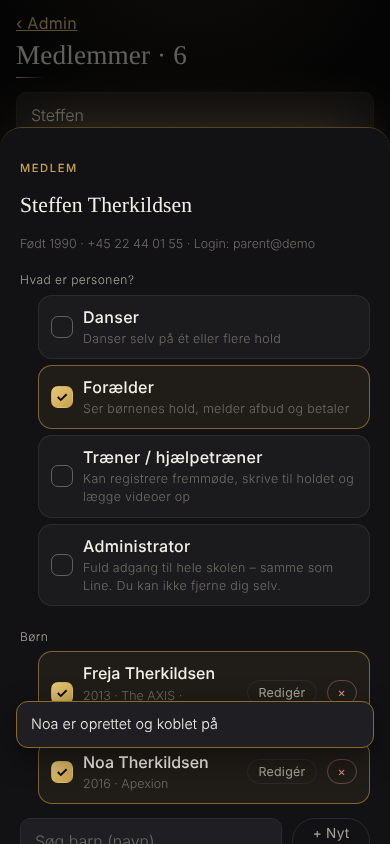
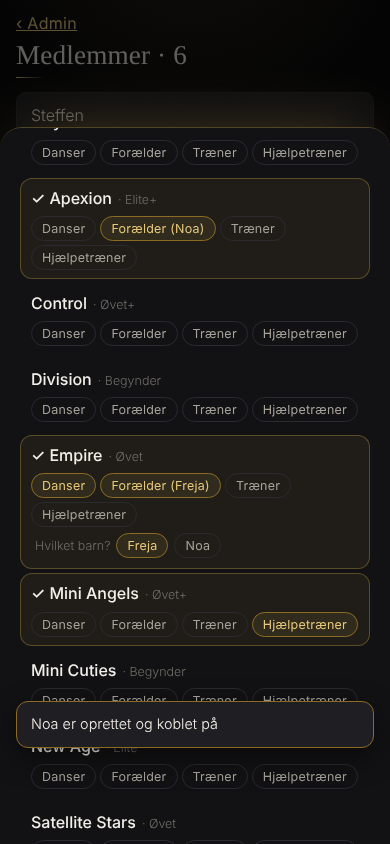
Members editor v3: access summary on top; any role combination incl. admin (saved with Gem); one team list grouped by style, alphabetical, role chips per team (Danser · Forælder via child · Træner · Hjælpetræner); Admin menu 'Brugere' → 'Nye brugere'
Claude-Session: https://claude.ai/code/session_01GGpukzb1UrCDBdg1Js3mqC

diff --git a/src/domain/llds/admin/MemberSheet.tsx b/src/domain/llds/admin/MemberSheet.tsx
@@ -6,32 +6,39 @@ import { Sheet } from "../components/Sheet";
 
 type Props = { member: Member; all: Member[]; teams: Team[]; onClose: () => void; onChanged: () => void; onOpen: (m: Member) => void; toast: (m: string) => void };
 
-const Check = ({ on, children, sub, sub2, onChange, testId, disabled }: { on: boolean; children: ReactNode; sub?: string; sub2?: string; onChange: () => void; testId?: string; disabled?: boolean }) => (
+const Check = ({ on, children, sub, onChange, testId, disabled }: { on: boolean; children: ReactNode; sub?: string; onChange: () => void; testId?: string; disabled?: boolean }) => (
   <button type="button" className={"checkrow" + (on ? " on" : "") + (disabled ? " off" : "")} role="checkbox" aria-checked={on} aria-disabled={disabled} disabled={disabled} onClick={onChange} data-testid={testId}>
     <span className="box" aria-hidden>{on ? "✓" : ""}</span>
-    <span className="grow"><span className="lbl">{children}</span>{(sub2 ?? sub) && <span className="tiny">{sub2 ?? sub}</span>}</span>
+    <span className="grow"><span className="lbl">{children}</span>{sub && <span className="tiny">{sub}</span>}</span>
   </button>
 );
 
-/** Admin → Medlemmer → one person. Roles are explicit check boxes (dancer / parent / trainer / admin); each role opens its own
- *  section (teams as dancer, teams as trainer or assistant, linked children). A summary at the bottom lists exactly what the
- *  person can see in the app, so Line never has to guess. */
+const ageOf = (p: { birth_date?: string | null; birth_year?: number | null }) => p.birth_date ? Math.floor((Date.now() - new Date(p.birth_date).getTime()) / 31557600000) : p.birth_year ? new Date().getFullYear() - p.birth_year : null;
+
+/** Admin → Medlemmer → one person.
+ *  Top: what the person can see in the app (one ✓ per team, with the reason). Then "who is this?" as four check rows
+ *  (dancer / parent / trainer / admin – any combination; eligibility by age). Then ONE team list, grouped by style and
+ *  alphabetical, where each checked role adds its own chip on every team row: Danser · Forælder (via a child) · Træner · Hjælpetræner.
+ *  Then the children (link existing / create new). Everything is saved with Gem. */
 export function MemberSheet({ member: p, all, teams, onClose, onChanged, onOpen, toast }: Props) {
   const { t } = useTranslation();
   const me = useAuth((s) => s.me)!;
-  // Eligibility follows age (and child login), never whether the person has logged in yet – seeded trainers have no login until first sign-in.
-  const age = p.birth_date ? Math.floor((Date.now() - new Date(p.birth_date).getTime()) / 31557600000) : p.birth_year ? new Date().getFullYear() - p.birth_year : null;
-  const canStaff = !p.supervised_by && (age === null || age >= 15);         // trainer / assistant from 15
-  const canParent = !p.supervised_by && (age === null || age >= 18);        // parent / admin from 18
-  const canAdmin = canParent;
-  const why = (ok: boolean, min: number) => (ok ? undefined : age === null ? t("admin.needsAgeUnknown") : t("admin.needsAge", { min }));
+  const age = ageOf(p);
+  const canStaff = !p.supervised_by && (age === null || age >= 15);
+  const canParent = !p.supervised_by && (age === null || age >= 18);
+  const isSelf = p.id === me.person.id;
+  const canAdmin = canParent && !isSelf;
+  const why = (ok: boolean, min: number) => (ok ? undefined : isSelf && min === 18 && canParent ? t("admin.notSelf") : age === null ? t("admin.needsAgeUnknown") : t("admin.needsAge", { min }));
 
   const [dancer, setDancer] = useState(p.memberships.some((m) => m.role === "dancer"));
   const [parent, setParent] = useState(p.children.length > 0);
   const [staff, setStaff] = useState(p.memberships.some((m) => m.role !== "dancer"));
-  const [dancerTeams, setDancerTeams] = useState<string[]>(p.memberships.filter((m) => m.role === "dancer").map((m) => m.team_id));
-  const [staffTeams, setStaffTeams] = useState<{ team_id: string; role: Role }[]>(p.memberships.filter((m) => m.role !== "dancer").map((m) => ({ team_id: m.team_id, role: m.role })));
+  const [admin, setAdmin] = useState(p.is_admin);
+  const [ms, setMs] = useState<{ team_id: string; role: Role }[]>(p.memberships.map((m) => ({ team_id: m.team_id, role: m.role })));
   const [kids, setKids] = useState<string[]>(p.children.map((c) => c.id));
+  // children's dancer teams (draft) – edited through the "Forælder" chip on a team row
+  const [kidTeams, setKidTeams] = useState<Record<string, string[]>>(() => Object.fromEntries(p.children.map((c) => [c.id, (all.find((x) => x.id === c.id)?.memberships ?? []).filter((m) => m.role === "dancer").map((m) => m.team_id)])));
+  const [pickKidFor, setPickKidFor] = useState<string | null>(null);
   const [kidQ, setKidQ] = useState("");
   const [newKid, setNewKid] = useState<{ first_name: string; birth_date: string; team_ids: string[] } | null>(null);
   const [busy, setBusy] = useState(false);
@@ -40,73 +47,107 @@ export function MemberSheet({ member: p, all, teams, onClose, onChanged, onOpen,
   const teamName = (id: string) => teams.find((x) => x.id === id)?.name ?? "?";
   const byId = (id: string) => all.find((x) => x.id === id);
   const toggleIn = (list: string[], id: string) => (list.includes(id) ? list.filter((x) => x !== id) : [...list, id]);
-  const setStaffRole = (team_id: string, role: Role | null) => setStaffTeams((cur) => { const rest = cur.filter((m) => m.team_id !== team_id); return role ? [...rest, { team_id, role }] : rest; });
+  const has = (team_id: string, role: Role) => ms.some((m) => m.team_id === team_id && m.role === role);
+  const toggleRole = (team_id: string, role: Role) => setMs((cur) => (cur.some((m) => m.team_id === team_id && m.role === role) ? cur.filter((m) => !(m.team_id === team_id && m.role === role)) : [...cur, { team_id, role }]));
+  const kidsOn = (team_id: string) => kids.filter((k) => (kidTeams[k] ?? byId(k)?.memberships.filter((m) => m.role === "dancer").map((m) => m.team_id) ?? []).includes(team_id));
+  const toggleKidTeam = (kid: string, team_id: string) => setKidTeams((cur) => ({ ...cur, [kid]: toggleIn(cur[kid] ?? byId(kid)?.memberships.filter((m) => m.role === "dancer").map((m) => m.team_id) ?? [], team_id) }));
+  const onParentChip = (team_id: string) => {
+    if (!kids.length) { toast(t("admin.addChildFirst")); document.getElementById("kids-sec")?.scrollIntoView({ behavior: "smooth", block: "center" }); return; }
+    if (kids.length === 1) { toggleKidTeam(kids[0], team_id); return; }
+    setPickKidFor((cur) => (cur === team_id ? null : team_id));
+  };
 
-  // candidates for "add existing child": approved persons without their own adult login, not already linked, not the person
+  // teams grouped by style, alphabetical
+  const groups = useMemo(() => {
+    const g = new Map<string, Team[]>();
+    for (const tm of [...teams].sort((a, b) => a.name.localeCompare(b.name, "da"))) { const k = tm.style || t("admin.otherStyle"); g.set(k, [...(g.get(k) ?? []), tm]); }
+    return [...g.entries()].sort((a, b) => a[0].localeCompare(b[0], "da"));
+  }, [teams, t]);
+
   const candidates = useMemo(() => {
     const q = kidQ.trim().toLowerCase(); if (q.length < 2) return [];
     return all.filter((x) => x.id !== p.id && !kids.includes(x.id) && (!x.user_id || x.supervised_by) && `${x.first_name} ${x.last_name}`.toLowerCase().includes(q)).slice(0, 6);
   }, [kidQ, all, kids, p.id]);
 
-  // what the person will be able to see after save
   const access = useMemo(() => {
     const rows: { team: string; via: string }[] = [];
-    if (dancer) for (const id of dancerTeams) rows.push({ team: teamName(id), via: t("roles.dancer") });
-    if (staff) for (const m of staffTeams) rows.push({ team: teamName(m.team_id), via: t(`roles.${m.role}`) });
-    if (parent) for (const kid of kids) { const c = byId(kid); for (const m of c?.memberships ?? []) if (m.role === "dancer") rows.push({ team: teamName(m.team_id), via: t("admin.viaChild", { name: c!.first_name }) }); }
-    return rows;
+    for (const m of ms) if ((m.role === "dancer" && dancer) || (m.role !== "dancer" && staff)) rows.push({ team: teamName(m.team_id), via: t(`roles.${m.role}`) });
+    if (parent) for (const kid of kids) { const c = byId(kid); for (const tid of kidTeams[kid] ?? c?.memberships.filter((m) => m.role === "dancer").map((m) => m.team_id) ?? []) rows.push({ team: teamName(tid), via: t("admin.viaChild", { name: c?.first_name ?? "" }) }); }
+    return rows.sort((a, b) => a.team.localeCompare(b.team, "da"));
     // eslint-disable-next-line react-hooks/exhaustive-deps
-  }, [dancer, dancerTeams, staff, staffTeams, parent, kids, all, teams]);
+  }, [ms, dancer, staff, parent, kids, kidTeams, all, teams]);
 
   const save = async () => {
     setBusy(true);
     try {
-      const ms: { team_id: string; role: Role }[] = [...(dancer ? dancerTeams.map((team_id) => ({ team_id, role: "dancer" as Role })) : []), ...(staff ? staffTeams.filter((m) => !dancer || !dancerTeams.includes(m.team_id)) : [])];
-      await api.setMemberships(p.id, ms);
-      if (canParent) await api.setGuardians(p.id, parent ? kids : []);
+      await api.setMemberships(p.id, ms.filter((m) => (m.role === "dancer" ? dancer : staff)));
+      if (canParent) {
+        await api.setGuardians(p.id, parent ? kids : []);
+        if (parent) for (const kid of kids) { const c = byId(kid); if (!c || !kidTeams[kid]) continue; const keep = c.memberships.filter((m) => m.role !== "dancer").map((m) => ({ team_id: m.team_id, role: m.role })); await api.setMemberships(kid, [...keep, ...kidTeams[kid].map((team_id) => ({ team_id, role: "dancer" as Role }))]); }
+      }
+      if (canAdmin && admin !== p.is_admin) await api.setAdmin(p.id, admin);
       toast(t("common.saved")); onChanged(); onClose();
-    } finally { setBusy(false); }
+    } catch (x) { toast(t("common.error") + ": " + String((x as Error).message ?? x)); }
+    finally { setBusy(false); }
   };
   const createKid = async () => {
     if (!newKid || !newKid.first_name.trim()) return;
     setBusy(true);
-    try { const cid = await api.createChild({ parent_id: p.id, first_name: newKid.first_name, last_name: p.last_name, birth_date: newKid.birth_date || null, team_ids: newKid.team_ids }); setKids((k) => [...k, cid]); setNewKid(null); onChanged(); toast(t("admin.childCreated", { name: newKid.first_name })); }
+    try { const cid = await api.createChild({ parent_id: p.id, first_name: newKid.first_name, last_name: p.last_name, birth_date: newKid.birth_date || null, team_ids: newKid.team_ids }); setKids((k) => [...k, cid]); setKidTeams((k) => ({ ...k, [cid]: newKid.team_ids })); setNewKid(null); onChanged(); toast(t("admin.childCreated", { name: newKid.first_name })); }
     finally { setBusy(false); }
   };
 
   const login = p.supervised_by ? t("admin.loginChild") : p.user_id ? t("admin.loginOwn", { email: p.email ?? "" }) : p.email ? t("admin.loginPending", { email: p.email }) : p.parents.length ? t("admin.loginNone") : t("admin.loginNoEmail");
   const year = p.birth_date ? new Date(p.birth_date).getFullYear() : p.birth_year;
+  const anyRole = dancer || staff || parent;
 
   return (
     <Sheet onClose={onClose} eyebrow={t("admin.member")} title={`${p.first_name} ${p.last_name}`}>
       <div className="tiny">{[year ? t("admin.born", { year }) : null, p.phone, login].filter(Boolean).join(" · ")}</div>
       {p.parents.length > 0 && <div className="tiny" style={{ marginTop: 4 }}>{t("admin.parents")}: {p.parents.map((g) => <button key={g.id} className="linklike" onClick={() => { const m = byId(g.id); if (m) onOpen(m); }}>{g.first_name} {g.last_name}</button>).reduce<ReactNode[]>((acc, el, i) => (i ? [...acc, ", ", el] : [el]), [])}</div>}
 
-      {/* 1. Roles */}
+      {/* 1. Access summary – first, so the consequence of every tick is visible */}
+      <div className="field"><span>{t("admin.accessHead")}</span>
+        <div className="card access" data-testid="access">
+          {access.length ? access.map((r, i) => <div key={i} className="accessrow"><span className="box on" aria-hidden>✓</span><span className="grow">{r.team}</span><span className="tiny">{r.via}</span></div>) : <p className="tiny muted" style={{ margin: 0 }}>{t("admin.accessNone")}</p>}
+          <div className="tiny" style={{ marginTop: 8 }}>{login}{admin ? ` · ${t("admin.accessAdmin")}` : ""}</div>
+        </div>
+      </div>
+
+      {/* 2. Roles – any combination */}
       <div className="field"><span>{t("admin.rolesHead")}</span>
         <div className="checklist">
           <Check on={dancer} onChange={() => setDancer((v) => !v)} sub={t("admin.roleDancerSub")} testId="role-dancer">{t("roles.dancer")}</Check>
           <Check on={parent} disabled={!canParent} onChange={() => setParent((v) => !v)} sub={why(canParent, 18) ?? t("admin.roleParentSub")} testId="role-parent">{t("roles.parent")}</Check>
           <Check on={staff} disabled={!canStaff} onChange={() => setStaff((v) => !v)} sub={why(canStaff, 15) ?? t("admin.roleStaffSub")} testId="role-staff">{t("admin.roleStaff")}</Check>
-          {p.id !== me.person.id && <Check on={p.is_admin} disabled={!canAdmin} sub2={why(canAdmin, 18)} onChange={async () => { await api.setAdmin(p.id, !p.is_admin); toast(!p.is_admin ? t("admin.adminGiven", { name: p.first_name }) : t("admin.adminRemoved", { name: p.first_name })); onChanged(); }} sub={t("admin.isAdminHint")} testId="admin-toggle">{t("admin.isAdmin")}</Check>}
+          <Check on={admin} disabled={!canAdmin} onChange={() => setAdmin((v) => !v)} sub={why(canAdmin, 18) ?? t("admin.isAdminHint")} testId="admin-toggle">{t("admin.isAdmin")}</Check>
         </div>
       </div>
 
-      {/* 2. Dancer on teams */}
-      {dancer && <div className="field"><span>{t("admin.dancerOn")}</span>
-        <div className="checklist cols" data-testid="dancer-teams">{teams.map((tm) => <Check key={tm.id} on={dancerTeams.includes(tm.id)} onChange={() => setDancerTeams((l) => toggleIn(l, tm.id))}>{tm.name}<span className="tiny"> · {tm.level}</span></Check>)}</div>
-      </div>}
-
-      {/* 3. Trainer / assistant on teams */}
-      {staff && canStaff && <div className="field"><span>{t("admin.staffOn")}</span>
-        <div className="teamgrid" data-testid="staff-teams">{teams.map((tm) => { const r = staffTeams.find((m) => m.team_id === tm.id)?.role ?? null; return (
-          <div key={tm.id} className={"teamrow" + (r ? " on" : "")}><span className="grow">{r ? "✓ " : ""}{tm.name}</span><div className="chips tight">{(["trainer", "assistant"] as Role[]).map((role) => <button key={role} type="button" className={"chip small" + (r === role ? " on" : "")} onClick={() => setStaffRole(tm.id, r === role ? null : role)}>{t(`roles.${role}`)}</button>)}</div></div>); })}</div>
+      {/* 3. One team list – chips per checked role */}
+      {anyRole && <div className="field"><span>{t("admin.teamsHead")}</span>
+        <p className="tiny muted" style={{ margin: "0 0 6px" }}>{t("admin.teamsHint")}</p>
+        <div className="teamlist" data-testid="teamlist">
+          {groups.map(([style, list]) => <div key={style} className="tgroup"><div className="eyebrow">{style}</div>
+            {list.map((tm) => { const kOn = parent ? kidsOn(tm.id) : []; const on = (dancer && has(tm.id, "dancer")) || (staff && (has(tm.id, "trainer") || has(tm.id, "assistant"))) || kOn.length > 0; return (
+              <div key={tm.id} className={"trow" + (on ? " on" : "")} data-team={tm.name}>
+                <div className="trow-main"><span className="grow"><span className="tname">{on ? "✓ " : ""}{tm.name}</span><span className="tiny"> · {tm.level}</span></span>
+                  <div className="chips tight">
+                    {dancer && <button type="button" className={"chip small" + (has(tm.id, "dancer") ? " on" : "")} onClick={() => toggleRole(tm.id, "dancer")}>{t("roles.dancer")}</button>}
+                    {parent && canParent && <button type="button" className={"chip small" + (kOn.length ? " on" : "")} onClick={() => onParentChip(tm.id)} data-testid="chip-parent">{t("roles.parent")}{kOn.length ? ` (${kOn.map((k) => byId(k)?.first_name).join(", ")})` : ""}</button>}
+                    {staff && canStaff && <button type="button" className={"chip small" + (has(tm.id, "trainer") ? " on" : "")} onClick={() => toggleRole(tm.id, "trainer")}>{t("roles.trainer")}</button>}
+                    {staff && canStaff && <button type="button" className={"chip small" + (has(tm.id, "assistant") ? " on" : "")} onClick={() => toggleRole(tm.id, "assistant")}>{t("roles.assistant")}</button>}
+                  </div></div>
+                {pickKidFor === tm.id && kids.length > 1 && <div className="trow-kids"><span className="tiny">{t("admin.whichChild")}</span>{kids.map((k) => <button key={k} type="button" className={"chip small" + (kOn.includes(k) ? " on" : "")} onClick={() => toggleKidTeam(k, tm.id)}>{byId(k)?.first_name}</button>)}</div>}
+              </div>); })}
+          </div>)}
+        </div>
       </div>}
 
       {/* 4. Children */}
-      {parent && canParent && <div className="field"><span>{t("admin.childrenHead")}</span>
+      {parent && canParent && <div className="field" id="kids-sec"><span>{t("admin.childrenHead")}</span>
         <div className="checklist" data-testid="kids">
-          {kids.map((id) => { const c = byId(id); if (!c) return null; const tms = c.memberships.filter((m) => m.role === "dancer").map((m) => teamName(m.team_id)); return (
+          {kids.map((id) => { const c = byId(id); if (!c) return null; const tms = (kidTeams[id] ?? c.memberships.filter((m) => m.role === "dancer").map((m) => m.team_id)).map(teamName); return (
             <div key={id} className="checkrow on static"><span className="box" aria-hidden>✓</span><span className="grow"><span className="lbl">{c.first_name} {c.last_name}</span><span className="tiny">{[c.birth_year ? String(c.birth_year) : null, tms.length ? tms.join(" · ") : t("admin.noTeams")].filter(Boolean).join(" · ")}</span></span>
               <button type="button" className="chip small" onClick={() => onOpen(c)}>{t("admin.editChild")}</button><button type="button" className="chip small danger" aria-label={t("admin.unlink")} onClick={() => setKids((k) => k.filter((x) => x !== id))}>×</button></div>); })}
           {!kids.length && <p className="tiny muted" style={{ margin: "4px 0" }}>{t("admin.noChildrenYet")}</p>}
@@ -123,14 +164,6 @@ export function MemberSheet({ member: p, all, teams, onClose, onChanged, onOpen,
           <div className="row"><button type="button" className="cta grow" disabled={busy || !newKid.first_name.trim()} onClick={() => void createKid()}>{t("admin.createChild")}</button><button type="button" className="ghost" onClick={() => setNewKid(null)}>{t("common.cancel")}</button></div>
         </div>}
       </div>}
-
-      {/* 5. Access summary */}
-      <div className="field"><span>{t("admin.accessHead")}</span>
-        <div className="card access" data-testid="access">
-          {access.length ? access.map((r, i) => <div key={i} className="accessrow"><span className="box on" aria-hidden>✓</span><span className="grow">{r.team}</span><span className="tiny">{r.via}</span></div>) : <p className="tiny muted" style={{ margin: 0 }}>{t("admin.accessNone")}</p>}
-          <div className="tiny" style={{ marginTop: 8 }}>{login}{p.is_admin ? ` · ${t("admin.accessAdmin")}` : ""}</div>
-        </div>
-      </div>
 
       <div className="row"><button className="cta grow" disabled={busy} onClick={() => void save()} data-testid="member-save">{t("common.save")}</button>
         <button className="ghost danger" onClick={async () => { if (!confirmOff) { setConfirmOff(true); setTimeout(() => setConfirmOff(false), 4000); return; } await api.setPersonStatus(p.id, "inactive"); toast(t("admin.deactivated")); onChanged(); onClose(); }}>{confirmOff ? t("admin.deactivateConfirm") : t("admin.deactivate")}</button></div>

diff --git a/src/styles.css b/src/styles.css
@@ -500,3 +500,9 @@ button.cta { box-shadow:0 10px 26px -12px rgba(201,162,74,.7); }
 .accessrow .box{flex:none;width:18px;height:18px;border-radius:6px;display:grid;place-items:center;font-size:12px;font-weight:700;color:#0a0a0b}
 .rolechips{display:flex;flex-wrap:wrap;gap:4px 10px}.rolechips .rc{color:var(--gold2)}.rolechips .rc.off{color:var(--muted)}
 .checkrow.off{opacity:.45;cursor:not-allowed}.checkrow.off .box{border-style:dashed}
+
+/* Admin → Medlemmer: one team list grouped by style; role chips per row */
+.teamlist{display:flex;flex-direction:column;gap:14px}.tgroup .eyebrow{margin:0 0 6px}
+.trow{padding:8px 10px;border-radius:12px;border:1px solid transparent}.trow+.trow{margin-top:4px}.trow.on{background:rgba(201,162,74,.08);border-color:rgba(201,162,74,.35)}
+.trow-main{display:flex;flex-direction:column;align-items:stretch;gap:6px}.trow .tname{font-weight:500}.trow .chips.tight{flex-wrap:wrap;justify-content:flex-start}.trow-main>.grow{display:flex;align-items:baseline;gap:6px}
+.trow-kids{display:flex;align-items:center;gap:6px;flex-wrap:wrap;padding:6px 0 2px 4px}
